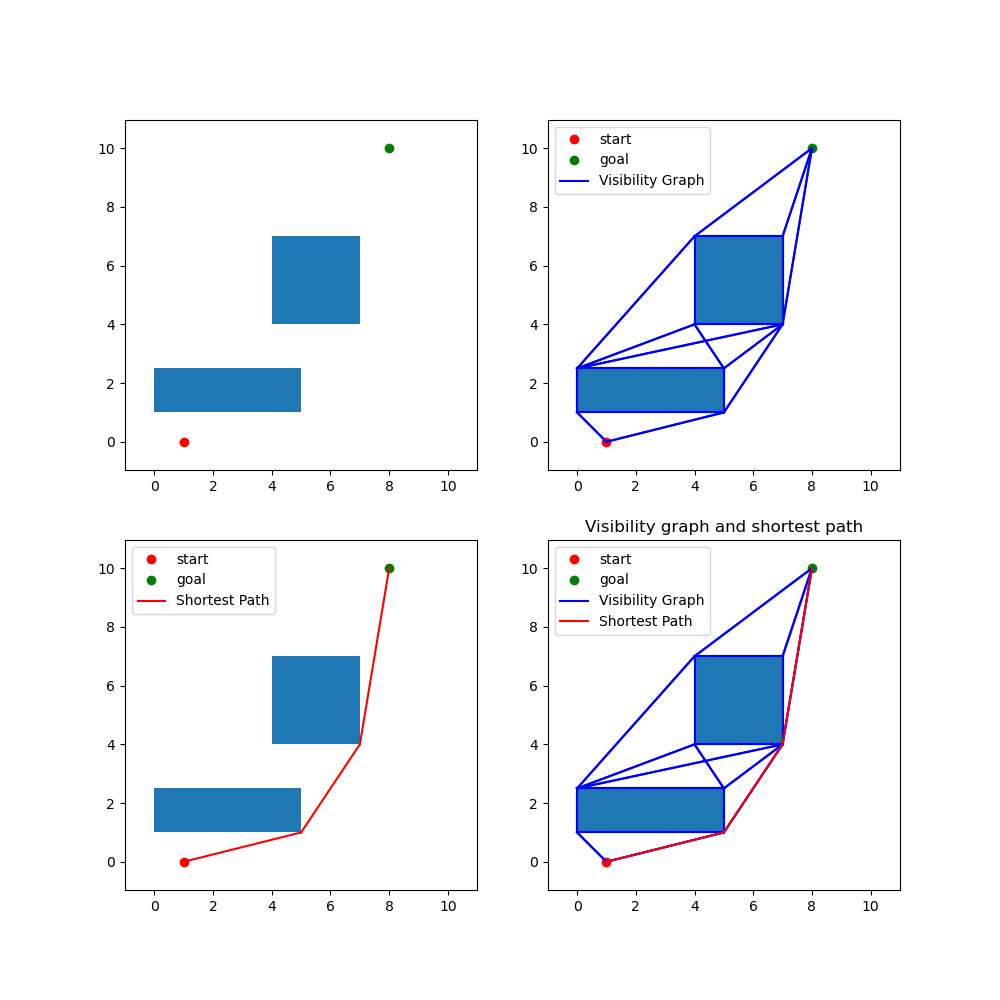
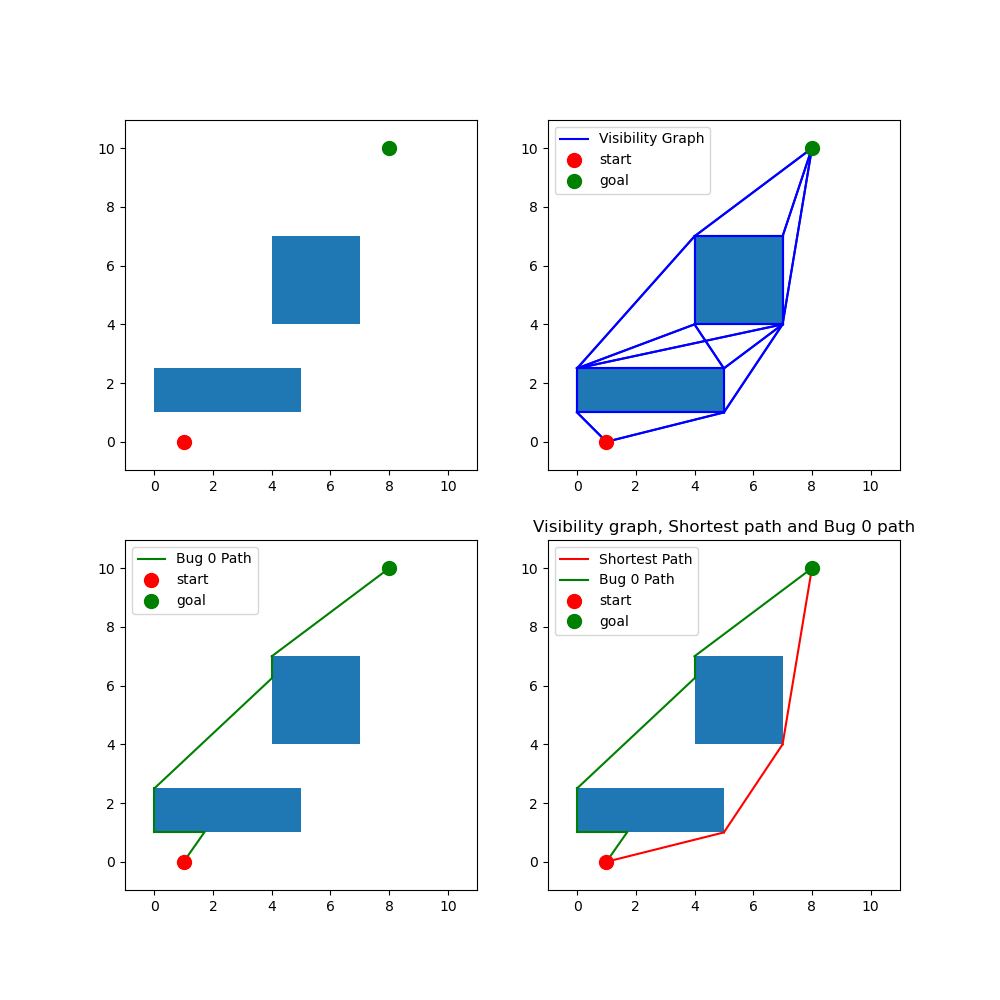
update visibility graph env

diff --git a/MidSem/visibility_graph.py b/MidSem/visibility_graph.py
@@ -56,15 +56,6 @@ if __name__ == "__main__":
         ax3.add_patch(plt.Polygon(p.vertices, closed=True, fill=True))
         ax4.add_patch(plt.Polygon(p.vertices, closed=True, fill=True))
 
-    # plot start and goal
-    for ax in [ax1, ax2, ax3, ax4]:
-        ax.axis('equal')
-        ax.plot(start.args[0], start.args[1], 'ro', label='start')
-        ax.plot(goal.args[0], goal.args[1], 'go', label='goal')
-        # set limits
-        ax.set_xlim(-1, 11)
-        ax.set_ylim(-1, 11)
-
     visgraph = visibility_graph(start, goal, polygons)
     # print("Visibility graph:")
     # for e in visgraph:
@@ -73,28 +64,50 @@ if __name__ == "__main__":
     # plot visibility graph
     for e in visgraph:
         ax2.plot([e[0].args[0], e[1].args[0]], [e[0].args[1], e[1].args[1]], 'b-')
-        ax4.plot([e[0].args[0], e[1].args[0]], [e[0].args[1], e[1].args[1]], 'b-')
     ax2.plot([], [], 'b-', label="Visibility Graph")
-    ax4.plot([], [], 'b-', label="Visibility Graph")
 
     adj_list, weights = get_adjacency_list(visgraph)
     path = a_star(start, goal, adj_list, weights)
     # plot shortest path
     for i in range(len(path)-1):
-        ax3.plot([path[i].args[0], path[i+1].args[0]], [path[i].args[1], path[i+1].args[1]], 'r-')
         ax4.plot([path[i].args[0], path[i+1].args[0]], [path[i].args[1], path[i+1].args[1]], 'r-')
-    ax3.plot([], [], 'r-', label="Shortest Path")
     ax4.plot([], [], 'r-', label="Shortest Path")
-
     # print("Shortest path:")
     # print(path)
+
+    # Bug 0 path
+    bug0_path = [
+        start,
+        Point2D(17/10, 1),
+        Point(0, 1),
+        Point(0, 2.5),
+        Point2D(4, 25/4),
+        Point2D(4, 7),
+        goal
+    ]
+
+    # plot Bug 0 path
+    for i in range(len(bug0_path)-1):
+        ax3.plot([bug0_path[i].args[0], bug0_path[i+1].args[0]], [bug0_path[i].args[1], bug0_path[i+1].args[1]], 'g-')
+        ax4.plot([bug0_path[i].args[0], bug0_path[i+1].args[0]], [bug0_path[i].args[1], bug0_path[i+1].args[1]], 'g-')
+    ax3.plot([], [], 'g-', label="Bug 0 Path")
+    ax4.plot([], [], 'g-', label="Bug 0 Path")
+
+    # plot start and goal
+    for ax in [ax1, ax2, ax3, ax4]:
+        ax.axis('equal')
+        ax.plot(start.args[0], start.args[1], 'ro', label='start', markersize=10)
+        ax.plot(goal.args[0], goal.args[1], 'go', label='goal', markersize=10)
+        # set limits
+        ax.set_xlim(-1, 11)
+        ax.set_ylim(-1, 11)
 
     # legend
     for ax in [ax2, ax3, ax4]:
         ax.legend()
 
     # plot title
-    plt.title("Visibility graph and shortest path")
+    plt.title("Visibility graph, Shortest path and Bug 0 path")
 
     # save plot
     plt.savefig("MidSem/plots/visibility_graph.png")
